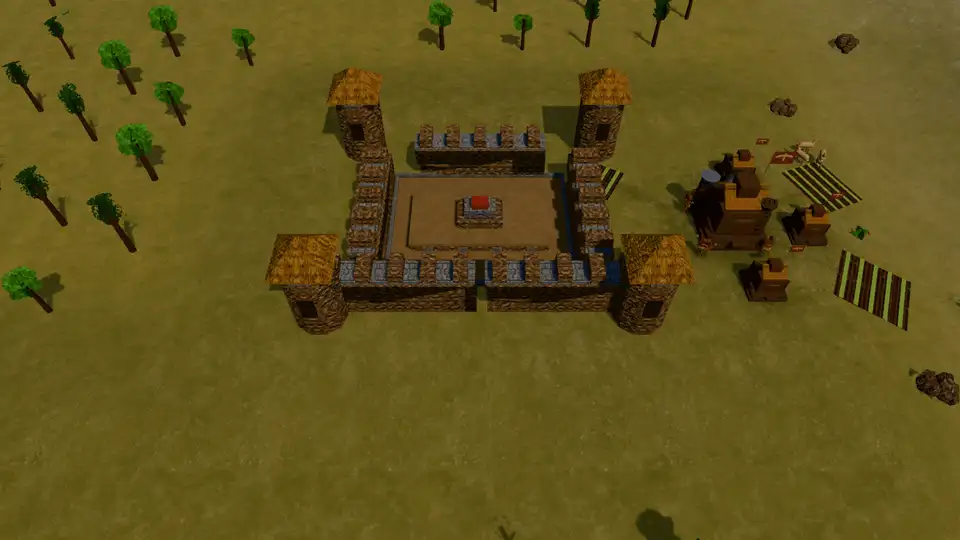
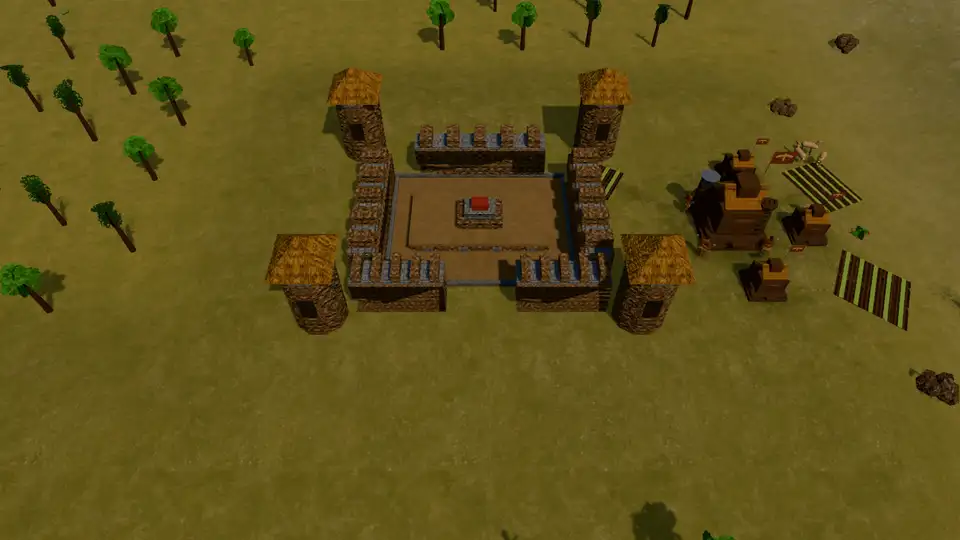
fix(architecture): open the pucará gate and sync the Wari docs
Review fixes on the Wari kit:

- The two southern pukara_wall pieces overlapped the gate (0.4 m raw, closed once the site padding is
  applied). Scale them to 6 m so the gate is 4.4 m, and assert its width in the kit test.
- Lift the Chanca altar 1.12 m so it lands flush on the 1.2 m terrace instead of 0.08 m above it.
- Point the manifest sources at `wari_tiahuanaco.md` (the invented `wari.md` did not exist) and regenerate
  them.
- Clear `mocheCity` and `wariCity` when a match is rebuilt, like the other kit cities.
- Sync the living docs the kit retired: `blender-art.md`, `development.md`, the m4 quality-bar row and the
  Wari mission doc; fix the stale footprint comment in `sites.ts`.

diff --git a/src/model/defs/wariChancaCity.ts b/src/model/defs/wariChancaCity.ts
@@ -23,8 +23,8 @@ export const WARI_CITY_ANCHOR = wariPoint({ x: 107.5, z: 92 });
 export const CHANCA_CITY_ANCHOR = chancaPoint({ x: 112.4, z: 60.8 });
 
 /**
- * Solid footprints in model space (Blender bounds, game +Z = Blender -Y). The plaza floor has none and
- * stays walkable; the terrace is a low step the layout treats as solid so units walk around it.
+ * Solid footprints in model space (Blender bounds, game +Z = Blender -Y). The plaza floor has none and the
+ * andén is a low step (1.2 m), so both stay walkable; the walls, towers and buildings block.
  */
 export const WARI_KIT_FOOTPRINTS: Partial<Record<string, ArchFootprint>> = {
   d_temple: { minX: -9, maxX: 9, minZ: -9, maxZ: 9 },
@@ -63,12 +63,12 @@ export const WARI_CITY_LAYOUT: readonly ArchPlacement[] = [
 export const CHANCA_CITY_LAYOUT: readonly ArchPlacement[] = [
   { asset: 'plaza', ...CHANCA_CITY_ANCHOR, rotY: 0, scale: [0.5, 1, 0.6], lift: 0.02 },
   { asset: 'terrace', ...CHANCA_CITY_ANCHOR, rotY: 0, scale: [0.8, 1, 0.8] },
-  { asset: 'altar', ...CHANCA_CITY_ANCHOR, rotY: 0, scale: ONE, lift: 1.2 },
+  { asset: 'altar', ...CHANCA_CITY_ANCHOR, rotY: 0, scale: ONE, lift: 1.12 },
   { asset: 'pukara_wall', ...at(CHANCA_CITY_ANCHOR, 0, -6.2), rotY: 0, scale: ONE },
   { asset: 'pukara_wall', ...at(CHANCA_CITY_ANCHOR, -7.6, 0), rotY: Math.PI / 2, scale: ONE },
   { asset: 'pukara_wall', ...at(CHANCA_CITY_ANCHOR, 7.6, 0), rotY: -Math.PI / 2, scale: ONE },
-  { asset: 'pukara_wall', ...at(CHANCA_CITY_ANCHOR, -5.2, 6.4), rotY: 0, scale: ONE },
-  { asset: 'pukara_wall', ...at(CHANCA_CITY_ANCHOR, 5.2, 6.4), rotY: 0, scale: ONE },
+  { asset: 'pukara_wall', ...at(CHANCA_CITY_ANCHOR, -5.2, 6.4), rotY: 0, scale: [0.6, 1, 1] },
+  { asset: 'pukara_wall', ...at(CHANCA_CITY_ANCHOR, 5.2, 6.4), rotY: 0, scale: [0.6, 1, 1] },
   { asset: 'tower', ...at(CHANCA_CITY_ANCHOR, -9.3, -8.7), rotY: 0, scale: ONE },
   { asset: 'tower', ...at(CHANCA_CITY_ANCHOR, 9.3, -8.7), rotY: 0, scale: ONE },
   { asset: 'tower', ...at(CHANCA_CITY_ANCHOR, -10.2, 7.6), rotY: 0, scale: ONE },

diff --git a/src/model/defs/sites.ts b/src/model/defs/sites.ts
@@ -639,8 +639,7 @@ export const AUTHORED_SITES: Record<AuthoredSiteId, AuthoredSiteDef> = {
     modelName: 'wari_site',
     hideModel: true,
     style: 'wari',
-    // The 192 m composition is scaled by 4/3 into the 256 m transect; the model, proxies and blockers
-    // scale with it so the complex still covers its terrace.
+    // The retired 192 m composition's scale stays for the registry fallback; the kit draws in world metres.
     scale: wariLength(0.25),
     origin: wariPoint({ x: 107.5, z: 86.4 }),
     anchor: wariPoint({ x: 107.5, z: 102 }),
@@ -689,8 +688,7 @@ export const AUTHORED_SITES: Record<AuthoredSiteId, AuthoredSiteDef> = {
     modelName: 'chanca_site',
     hideModel: true,
     style: 'wari',
-    // The 160 m composition is scaled by 1.6 into the 256 m transect; the model, proxies and blockers
-    // scale with it so the pucará still covers its terrace.
+    // The retired 160 m composition's scale stays for the registry fallback; the kit draws in world metres.
     scale: chancaLength(0.7),
     origin: chancaPoint({ x: 112.4, z: 60.8 }),
     anchor: chancaPoint({ x: 112.4, z: 60.8 }),

diff --git a/tests/wari-architecture-kit.test.ts b/tests/wari-architecture-kit.test.ts
@@ -165,6 +165,10 @@ describe('highland layouts', () => {
     expect(blockersCover(blockers, a.x, a.z - 6.2), 'north wall').toBe(true);
     expect(blockersCover(blockers, a.x + 3, a.z + 2), 'terrace').toBe(false);
     expect(blockersCover(blockers, a.x, a.z + 6.4), 'gate').toBe(false);
+    // The two southern segments leave a gate wide enough for the site pad (0.8 m per side at runtime).
+    const south = blockers.filter((b) => b.z > a.z + 4 && b.d < 3).sort((l, r) => l.x - r.x);
+    const gate = south[1]!.x - south[1]!.w / 2 - (south[0]!.x + south[0]!.w / 2);
+    expect(gate, 'gate width').toBeGreaterThanOrEqual(4);
     expect(blockersCover(blockers, a.x - 5.2, a.z + 6.4), 'south wall').toBe(true);
     expect(blockersCover(blockers, a.x - 9.3, a.z - 8.7), 'north-west tower').toBe(true);
   });

diff --git a/src/core/Game.ts b/src/core/Game.ts
@@ -2350,6 +2350,8 @@ export class Game {
       this.colonialCity = null;
       this.republicCity = null;
       this.independenceCity = null;
+      this.mocheCity = null;
+      this.wariCity = null;
     }
     this.sitePhase = this.siteDef?.phases?.initial ?? 'in_use';
     this.sitePhaseRestored = false;

diff --git a/scripts/blender/build_wari_architecture_kit.py b/scripts/blender/build_wari_architecture_kit.py
@@ -198,7 +198,7 @@ def main():
             'docs/historia/arquitectura.md',
             'docs/design/wari-sacred-site.md',
             'docs/design/chanca-site.md',
-            'docs/historia/campanas/wari.md',
+            'docs/historia/campanas/wari_tiahuanaco.md',
             'docs/historia/campanas/yahuar_pampa.md',
         ],
         collision='wariCityBlockers / chancaCityBlockers in src/model/defs/wariChancaCity.ts',

diff --git a/docs/development.md b/docs/development.md
@@ -84,7 +84,11 @@ Definition of Done and the building audit see
   retired GLB is a fallback. The mission uses the `trade` heritage operation at the Huaca de la Luna and
   `recordDelivery` fills required `deliver` goals before optional ones. See
   `docs/design/moche-chimu-sites.md`.
-- **Wari network**: `m4_wari` loads `wari_site` and uses the `network` objective (`ObjectiveDef.nodes`) to require a completed `Mercado` at each frontier node. `MissionLayout.roads` draws terrain-following, visual-only ribbons with `SettlementOverlay` (`Game.spawnMissionRoads`). The frontier hold is gated by the network; there is no active enemy. Source and export live in `art-src/blender/wari/` and `scripts/blender/build_wari_site.py`. See `docs/design/wari-sacred-site.md`.
+- **Wari network**: `m4_wari` draws its site from the Wari kit (`wariChancaCity.ts`) and uses the `network`
+  objective (`ObjectiveDef.nodes`) to require a completed `Mercado` at each frontier node.
+  `MissionLayout.roads` draws terrain-following, visual-only ribbons with `SettlementOverlay`
+  (`Game.spawnMissionRoads`). The frontier hold is gated by the network; there is no active enemy. The
+  pre-kit master stays in `art-src/blender/wari/`. See `docs/design/wari-chanca-sites.md`.
 - **Mission canals**: `MissionLayout.canal` (`src/campaign/types.ts`) gives a normalized canal site and, optionally, an authored `path`; `Game.spawnCanal` builds relief-following ribbons (`src/rendering/canal.ts`) when the path exists, or the legacy straight box for m3/m6. `MissionPoint.ref: 'canal'` resolves the site for a `reach` objective; `canalIrrigationAt` measures the farm bonus along the trace and `Game.canPlace`/`isReserved` keep buildings and props off the channel. m1's closed communal gate raises `farmYieldAt` along the trace; m6 uses the canal as the Chan Chan surrender target. The canal has no pathfinding obstacle. See `tests/canal.test.ts`, `tests/e2e/campaign.spec.ts` and `tests/e2e/caral-city.spec.ts`.
 - **Building/unit materials are AI-overridable**: `mat()` (`ProceduralModel.ts`) maps a `TexKind` to an
   AI-generated material via `TEX_GEN` (e.g. `adobe → wall_adobe`, `brick → wall_brick`, `roof → tile`,

diff --git a/docs/design/campaign-quality-bar.md b/docs/design/campaign-quality-bar.md
@@ -237,7 +237,7 @@ Reviewed 2026-11-14 as a model mission; the art gate closed on 2026-11-23 (site 
 | Onboarding  | Met                  | Non-blocking tutorial, briefing, Codex and minimap pips.                                                                                                                                       |
 | Closure     | Met                  | Dusk epilogue capture narrates the collapse toward 1000–1100 AD; optional third centre summarised.                                                                                             |
 | UX          | Met                  | `tests/e2e/hud-layout.spec.ts` checks the panels geometrically at 1280×720 (Caral also at 1600×900 and 1920×1080).                                                                             |
-| Visuals     | Met locally          | Authored `wari_site` GLB, painted highland basin and in-engine intro/epilogue captures in `public/media/wari/`.                                                                                |
+| Visuals     | Met locally          | Wari kit (D-shaped temple, plaza, galleries), painted highland basin and in-engine captures in `public/media/wari/`.                                                                                |
 | Persistence | Met                  | Network, hold timer, resources and tutorial round-trip in the mission's save path; v7 m4 saves are rejected (`SAVE_VERSION` 8).                                                                |
 | Tests       | Met                  | Data, site/proxy collision, tutorial, mission, HUD, real-command playtest and save/load coverage.                                                                                              |
 | Docs        | Met                  | This document, dossier, `wari-model-mission.md`, experience table, site note, art docs and README aligned.                                                                                     |

diff --git a/docs/design/blender-art.md b/docs/design/blender-art.md
@@ -122,12 +122,13 @@ representative reconstruction, not a survey. See `docs/design/moche-sacred-site.
 
 ## Wari site source
 
-`m4_wari` uses a project-owned synthesis of the Wari monumental core. The
-editable master and LODs live in `art-src/blender/wari/` (Git LFS); runtime GLBs
-are `src/assets/sites/wari/wari_site_lod0.glb` / `wari_site_lod1.glb`. The
-builder/exporter is `scripts/blender/build_wari_site.py`; the briefing render is
-`art-src/blender/wari/renders/wari_hero.png`. It is a representative
-reconstruction, not a survey. See `docs/design/wari-sacred-site.md`.
+`m4_wari` draws the Wari complex from the shared Wari architecture kit
+([`wari-chanca-sites.md`](./wari-chanca-sites.md)): `src/assets/architecture/wari/`, built by
+`scripts/blender/build_wari_architecture_kit.py` on `scripts/blender/arch_kit.py`, with the kit scene in
+`art-src/blender/scenes/wari_architecture_kit.blend` (Git LFS). The pre-kit master and its briefing render
+stay in `art-src/blender/wari/`; the retired `wari_site` GLB is no longer drawn. `m5_yahuar_pampa` draws
+its pucará from the same kit. They are representative reconstructions, not surveys. See
+`docs/design/{wari-sacred-site,chanca-site}.md`.
 
 ## Mission decor GLBs (m5–m9)
 

diff --git a/PROVENANCE.md b/PROVENANCE.md
@@ -1011,7 +1011,7 @@ slot is absent (offline / without assets).
 - **Source**: generated in Blender 5.3 by `scripts/blender/build_wari_architecture_kit.py` on the shared
   `scripts/blender/arch_kit.py`; kit scene `art-src/blender/scenes/wari_architecture_kit.blend` (Git LFS).
   Uncompressed exports and per-piece manifests in `art-src/blender/exports/wari/architecture/`; the game
-  copies were meshopt-compressed with `yarn art:models --only=<file>` (156,028 B for the 18 copies).
+  copies were meshopt-compressed with `yarn art:models --only=<file>` (156,060 B for the 18 copies).
 - **Content**: project-owned procedural geometry. Eight Principled materials (field stone, cut stone, lime
   plaster white and red, packed earth, thatch, timber and dark openings) with world-scale box-projected UVs
   and a per-vertex tint; no textures in the GLBs. At runtime the game maps `wall_fieldstone` and

diff --git a/docs/design/wari-model-mission.md b/docs/design/wari-model-mission.md
@@ -30,7 +30,7 @@ A 256 m transect generated by [`scripts/build_wari_heightmap.py`](../../scripts/
 sampling the former 192 m composition 4/3 larger:
 
 - **Ayacucho basin and the player's terrace** (west): andenes, fields and the base.
-- **Wari complex** (centre): the authored `wari_site` with the D-shaped temple, plaza, galleries and mural.
+- **Wari complex** (centre): the Wari kit's D-shaped temple, plaza, galleries and mural.
 - **Provincial nodes A and B** (east) and the frontier terrace, linked by authored roads.
 - **Highland ridges and dry quebradas** frame the basin and the provincial route.
 
